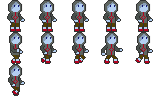
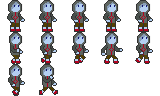
Added in the jump animation frame

Changed region(s): [[0.2188, 0.6562, 0.375, 1.0], [0.4375, 0.0, 0.5, 0.0625]]

diff --git a/TimePlatformer/Assets/Scripts/PlayerController.cs b/TimePlatformer/Assets/Scripts/PlayerController.cs
@@ -84,6 +84,9 @@ public class PlayerController : MonoBehaviour
 		// trigger the booleon for the movement animation using our local boolean
 		this.GetComponent<Animator>().SetBool("moving", moving);
 
+        // trigger the booleon for the movement animation using our local boolean
+        this.GetComponent<Animator>().SetBool("jumping", !canJump);
+
         // Apply force to rigidbody
         this.GetComponent<Rigidbody2D>().AddForce(playerSpeed * vel);
     }
